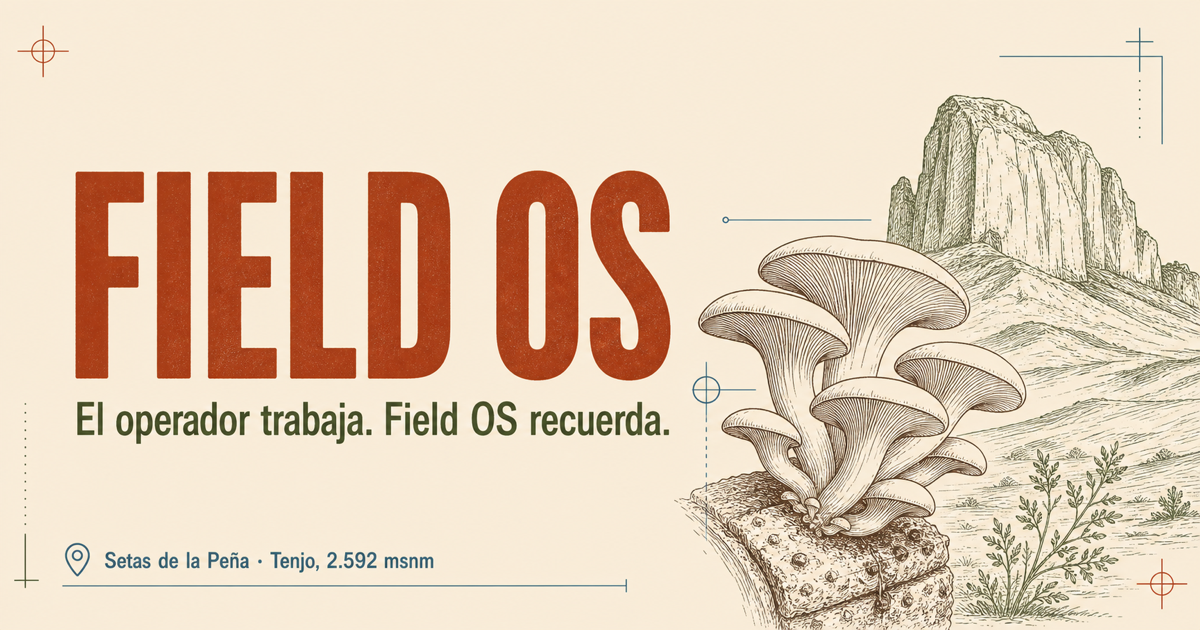
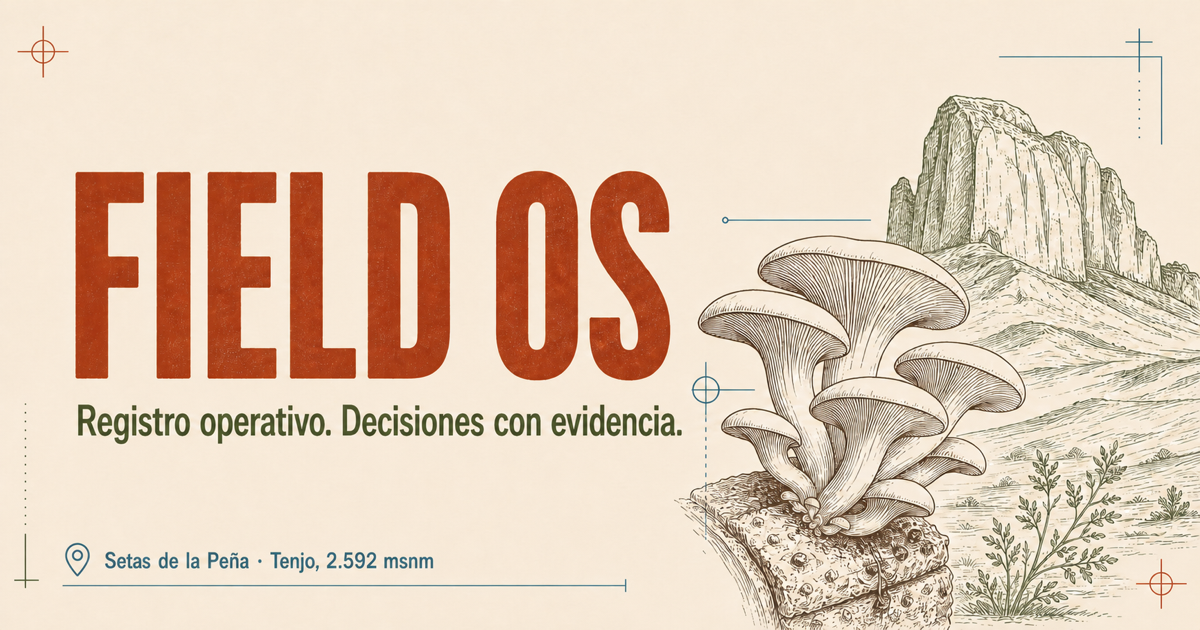
Refine Field OS voice

diff --git a/field-os-page/index.html b/field-os-page/index.html
@@ -6,7 +6,7 @@
   <meta name="theme-color" content="#F2E8D6">
   <meta name="description" content="Field OS: memoria operativa para el cultivo de setas en Tenjo. Captura, trazabilidad, producción y aprendizaje en un sistema modular.">
   <meta property="og:title" content="Field OS · Setas de la Peña">
-  <meta property="og:description" content="El operador trabaja. Field OS recuerda.">
+  <meta property="og:description" content="Registro operativo. Decisiones con evidencia.">
   <meta property="og:type" content="website">
   <meta property="og:locale" content="es_CO">
   <meta property="og:url" content="https://setasdlp-code.github.io/Field-OS/">
@@ -16,7 +16,7 @@
   <meta property="og:image:alt" content="Field OS, memoria operativa de Setas de la Peña en Tenjo">
   <meta name="twitter:card" content="summary_large_image">
   <meta name="twitter:title" content="Field OS · Setas de la Peña">
-  <meta name="twitter:description" content="Memoria operativa para cultivo de precisión en Tenjo.">
+  <meta name="twitter:description" content="Registro operativo y evidencia trazable para el cultivo en Tenjo.">
   <meta name="twitter:image" content="https://setasdlp-code.github.io/Field-OS/og.png">
   <title>Field OS · Setas de la Peña</title>
   <link rel="canonical" href="https://setasdlp-code.github.io/Field-OS/">
@@ -102,22 +102,22 @@
           <div class="view-header view-header--hero">
             <div>
               <p class="eyebrow" id="todayEyebrow">Sábado · 18 de julio · Turno de cultivo</p>
-              <h1 id="today-title">El turno, sin ruido.</h1>
-              <p class="lede" id="todayLede">Identifica el objeto en mano, registra el hecho y vuelve al cultivo. Cada evento queda atribuido y seguro.</p>
+              <h1 id="today-title">Estado de la operación.</h1>
+              <p class="lede" id="todayLede">Lotes, condiciones y excepciones con origen verificable. Cada cambio conserva autoría, hora y contexto.</p>
             </div>
             <img class="hero-specimen" src="./assets/hero-specimens.png" alt="Ilustración botánica de setas y la Peña de Juaica">
           </div>
 
           <div class="today-grid">
             <article class="capture-card surface-dark">
-              <div class="card-kicker">SIGUIENTE ACCIÓN</div>
-              <h2>¿Qué tienes en la mano?</h2>
-              <p>Escanea el QR del contenedor. Field OS traerá solo su identidad, último evento y acciones válidas.</p>
+              <div class="card-kicker">REGISTRO DE EVENTO</div>
+              <h2>Contenedor</h2>
+              <p>Escanea el QR o ingresa el código para abrir su identidad, historial reciente y eventos disponibles.</p>
               <button class="primary-action primary-action--light" type="button" id="scanButton">
                 <span class="scan-symbol" aria-hidden="true">⌗</span>
-                <span><strong>Escanear contenedor</strong><small>También puedes buscar por código</small></span>
+                <span><strong>Escanear contenedor</strong><small>Búsqueda por código disponible</small></span>
               </button>
-              <button class="text-action text-action--light" type="button" id="manualRegisterButton">Registrar sin escanear</button>
+              <button class="text-action text-action--light" type="button" id="manualRegisterButton">Ingresar código</button>
             </article>
 
             <article class="session-card card">
@@ -143,7 +143,7 @@
               <div class="card-heading">
                 <div>
                   <p class="eyebrow">PARA REVISAR</p>
-                  <h2>Evidencia, no órdenes</h2>
+                  <h2>Evidencia operativa</h2>
                 </div>
                 <span class="count-badge" id="reviewCount">2</span>
               </div>
@@ -181,7 +181,7 @@
 
         <section class="view" id="view-plan" data-view="plan" aria-labelledby="plan-title" hidden>
           <div class="view-header">
-            <div><p class="eyebrow">DEMANDA → CAPACIDAD → LOTES</p><h1 id="plan-title">Plan de producción</h1><p class="lede">La demanda comercial se convierte en órdenes visibles, sin duplicar datos entre ventas y cultivo.</p></div>
+            <div><p class="eyebrow">DEMANDA → CAPACIDAD → LOTES</p><h1 id="plan-title">Plan de producción</h1><p class="lede">Demanda, capacidad y órdenes de cultivo consolidadas en una misma secuencia operativa.</p></div>
             <button class="primary-action primary-action--inline" type="button">Nueva orden</button>
           </div>
           <div class="metric-strip">
@@ -257,7 +257,7 @@
 
         <section class="view" id="view-environment" data-view="environment" aria-labelledby="environment-title" hidden>
           <div class="view-header">
-            <div><p class="eyebrow">LECTURAS → REGLAS → EVIDENCIA</p><h1 id="environment-title">Ambiente</h1><p class="lede">Lo medido, lo simulado y lo calculado nunca se confunden. Las incidencias se agrupan y conservan responsable y cierre.</p></div>
+            <div><p class="eyebrow">LECTURAS → REGLAS → EVIDENCIA</p><h1 id="environment-title">Ambiente</h1><p class="lede">Lecturas, simulaciones y cálculos identificados por origen. Cada incidencia conserva responsable, seguimiento y cierre.</p></div>
             <button class="secondary-action" type="button">Banco de reglas</button>
           </div>
           <div class="chamber-grid">
@@ -278,14 +278,14 @@
             <article class="card incident-card">
               <div class="card-heading"><div><p class="eyebrow">INCIDENCIA AGRUPADA</p><h2>HR bajo rango registrado</h2></div><span class="status status--watch">Abierta</span></div>
               <dl class="incident-details"><div><dt>Inicio</dt><dd>11:06</dd></div><div><dt>Duración</dt><dd>22 min</dd></div><div><dt>Regla</dt><dd>HR &lt; 85% · 15 min</dd></div><div><dt>Origen</dt><dd>Sensor H-02A</dd></div></dl>
-              <label class="incident-note">Nota de revisión<textarea rows="3" placeholder="Registrar la observación, no una suposición."></textarea></label>
+              <label class="incident-note">Nota de revisión<textarea rows="3" placeholder="Hallazgo, causa confirmada o acción realizada."></textarea></label>
               <button class="primary-action primary-action--inline incident-ack" type="button">Reconocer incidencia</button>
             </article>
           </div>
         </section>
 
         <section class="view" id="view-inventory" data-view="inventory" aria-labelledby="inventory-title" hidden>
-          <div class="view-header"><div><p class="eyebrow">LOTE DE ORIGEN → MOVIMIENTO → COSTO</p><h1 id="inventory-title">Inventario</h1><p class="lede">Cada kg conserva proveedor, lote, fecha, costo y consumo. La disponibilidad no es solo una cifra.</p></div><button class="primary-action primary-action--inline" type="button">Registrar compra</button></div>
+          <div class="view-header"><div><p class="eyebrow">LOTE DE ORIGEN → MOVIMIENTO → COSTO</p><h1 id="inventory-title">Inventario</h1><p class="lede">Disponibilidad consolidada por proveedor, lote, fecha, costo y consumo proyectado.</p></div><button class="primary-action primary-action--inline" type="button">Registrar compra</button></div>
           <div class="metric-strip"><div><span>Valor en stock</span><strong>$286.400</strong><small>COP · calculado</small></div><div><span>Ingredientes</span><strong>12</strong><small>7 con stock</small></div><div><span>Por reponer</span><strong>2</strong><small>Según plan activo</small></div><div><span>Cobertura</span><strong>18 días</strong><small>Demanda prevista</small></div></div>
           <article class="card inventory-table-card">
             <div class="card-heading"><div><p class="eyebrow">STOCK POR LOTE</p><h2>Materias primas</h2></div><button class="text-action" type="button">Exportar CSV</button></div>
@@ -300,7 +300,7 @@
         </section>
 
         <section class="view" id="view-quality" data-view="quality" aria-labelledby="quality-title" hidden>
-          <div class="view-header"><div><p class="eyebrow">DEL PEDIDO AL INSUMO</p><h1 id="quality-title">Calidad y trazabilidad</h1><p class="lede">Un lote comercial puede recorrerse hacia atrás hasta cada cosecha, contenedor, receta e insumo.</p></div><button class="secondary-action" type="button" id="traceSearchButton">Buscar código</button></div>
+          <div class="view-header"><div><p class="eyebrow">DEL PEDIDO AL INSUMO</p><h1 id="quality-title">Calidad y trazabilidad</h1><p class="lede">La traza vincula cada lote comercial con sus cosechas, contenedores, receta e insumos de origen.</p></div><button class="secondary-action" type="button" id="traceSearchButton">Buscar código</button></div>
           <article class="card trace-card">
             <div class="card-heading"><div><p class="eyebrow">TRAZA ACTIVA</p><h2>EMP-260718-04 · Orellanas frescas 250 g</h2></div><span class="status status--approved">Liberado</span></div>
             <div class="trace-chain" aria-label="Cadena de trazabilidad del lote comercial">
@@ -325,15 +325,15 @@
         </section>
 
         <section class="view" id="view-learn" data-view="learn" aria-labelledby="learn-title" hidden>
-          <div class="view-header"><div><p class="eyebrow">HIPÓTESIS → EVIDENCIA → DECISIÓN → SOP</p><h1 id="learn-title">Aprender</h1><p class="lede">La experimentación usa la misma memoria operativa, pero nunca contamina la línea base de producción.</p></div><button class="primary-action primary-action--inline" type="button">Nueva prueba</button></div>
+          <div class="view-header"><div><p class="eyebrow">HIPÓTESIS → EVIDENCIA → DECISIÓN → SOP</p><h1 id="learn-title">Aprender</h1><p class="lede">Los ensayos comparten la memoria operativa y permanecen separados de la línea base de producción.</p></div><button class="primary-action primary-action--inline" type="button">Nueva prueba</button></div>
           <div class="split-layout split-layout--wide">
             <article class="card experiment-card"><div class="card-heading"><div><p class="eyebrow">EXP-260629-ML-02</p><h2>Melena de león · humedad 64% vs 67%</h2></div><span class="status status--experimental">Experimental</span></div><p class="support-copy">Hipótesis: reducir humedad inicial mejora colonización sin disminuir eficiencia biológica.</p><div class="comparison-grid"><div><small>Control · 67%</small><strong>EB 72%</strong><span>Contam. 12%</span></div><div class="comparison-grid--best"><small>Tratamiento · 64%</small><strong>EB 79%</strong><span>Contam. 4%</span></div></div><div class="experiment-footer"><span>6/6 contenedores cerrados</span><button class="compact-button" type="button">Abrir evidencia</button></div></article>
-            <article class="card sop-card"><div class="card-heading"><div><p class="eyebrow">DECISIÓN PENDIENTE</p><h2>Promover a repetición</h2></div><span class="source-tag source-tag--manual">Juicio humano</span></div><p>La evidencia favorece 64%, pero una sola corrida no cambia el SOP. Field OS conserva el resultado y prepara la siguiente repetición.</p><div class="sop-lifecycle"><span class="is-done">Observación</span><span class="is-done">Prueba</span><span class="is-active">Repetición</span><span>Validación</span><span>SOP</span></div><button class="secondary-action" type="button">Crear repetición vinculada</button></article>
+            <article class="card sop-card"><div class="card-heading"><div><p class="eyebrow">DECISIÓN PENDIENTE</p><h2>Promover a repetición</h2></div><span class="source-tag source-tag--manual">Juicio técnico</span></div><p>El resultado favorece 64%. La adopción al SOP requiere repetición y validación; la siguiente corrida conservará el vínculo con esta evidencia.</p><div class="sop-lifecycle"><span class="is-done">Observación</span><span class="is-done">Prueba</span><span class="is-active">Repetición</span><span>Validación</span><span>SOP</span></div><button class="secondary-action" type="button">Crear repetición vinculada</button></article>
           </div>
         </section>
 
         <section class="view" id="view-commercial" data-view="commercial" aria-labelledby="commercial-title" hidden>
-          <div class="view-header"><div><p class="eyebrow">PEDIDOS → COSECHA → ENTREGA</p><h1 id="commercial-title">Comercial</h1><p class="lede">La promesa al cliente se apoya en lotes y fechas reales, no en una hoja separada.</p></div><button class="primary-action primary-action--inline" type="button">Nuevo pedido</button></div>
+          <div class="view-header"><div><p class="eyebrow">PEDIDOS → COSECHA → ENTREGA</p><h1 id="commercial-title">Comercial</h1><p class="lede">Pedidos, disponibilidad prevista y fechas de entrega vinculados con los lotes de producción.</p></div><button class="primary-action primary-action--inline" type="button">Nuevo pedido</button></div>
           <div class="metric-strip"><div><span>Semana 29</span><strong>38,5 kg</strong><small>Pedidos confirmados</small></div><div><span>Disponible</span><strong>41,2 kg</strong><small>Cosecha prevista</small></div><div><span>Margen bruto</span><strong>47%</strong><small>Calculado por lote</small></div><div><span>Entregas</span><strong>7</strong><small>Bogotá y Tenjo</small></div></div>
           <article class="card order-board"><div class="card-heading"><div><p class="eyebrow">DESPACHOS PRÓXIMOS</p><h2>Pedidos confirmados</h2></div><span class="source-tag source-tag--mixed">Pedido + plan</span></div><div class="order-list"><div><span class="order-date">20 JUL</span><div><strong>Restaurante Aldea</strong><small>Orellana gris · 8,0 kg · Bogotá</small></div><span class="status status--ready">Asignado</span><strong>EMP-260718-04</strong></div><div><span class="order-date">22 JUL</span><div><strong>Mercado de Tenjo</strong><small>Orellana fresca · 12,0 kg</small></div><span class="status status--ready">Cubierto</span><strong>2 cosechas</strong></div><div><span class="order-date">24 JUL</span><div><strong>La Despensa Verde</strong><small>Orellana blanca · 6,5 kg · Bogotá</small></div><span class="status status--watch">En riesgo</span><strong>–1,2 kg</strong></div></div></article>
         </section>
@@ -363,14 +363,14 @@
         <div><small>Lote</small><strong>SDP-260607-OST-03</strong></div>
       </div>
       <fieldset class="event-choices">
-        <legend>¿Qué ocurrió?</legend>
-        <label><input type="radio" name="eventType" value="Observación" checked><span><strong>Observación</strong><small>Registrar lo que ves</small></span></label>
+        <legend>Tipo de evento</legend>
+        <label><input type="radio" name="eventType" value="Observación" checked><span><strong>Observación</strong><small>Condición registrada</small></span></label>
         <label><input type="radio" name="eventType" value="Cosecha"><span><strong>Cosecha</strong><small>Peso y calidad</small></span></label>
         <label><input type="radio" name="eventType" value="Traslado"><span><strong>Traslado</strong><small>Cambio de zona</small></span></label>
         <label><input type="radio" name="eventType" value="Contaminación"><span><strong>Contaminación</strong><small>Hecho observado</small></span></label>
       </fieldset>
       <div class="capture-fields">
-        <label>Nota breve<textarea id="eventNote" rows="3" placeholder="Como en un cuaderno de campo…"></textarea></label>
+        <label>Detalle<textarea id="eventNote" rows="3" placeholder="Hallazgo, medida o condición relevante."></textarea></label>
         <div class="quick-notes" aria-label="Notas rápidas">
           <button type="button" data-quick-note="Desarrollo uniforme.">Desarrollo uniforme</button>
           <button type="button" data-quick-note="Sin anomalías visibles.">Sin anomalías</button>
@@ -378,7 +378,7 @@
         </div>
       </div>
       <div class="dialog-actions">
-        <span><strong>Íñigo Pinzón</strong><small>Hora y autor se añaden automáticamente</small></span>
+        <span><strong>Íñigo Pinzón</strong><small>Hora y autor quedan asociados al evento</small></span>
         <button class="primary-action primary-action--inline" type="submit">Guardar evento</button>
       </div>
     </form>
@@ -388,7 +388,7 @@
     <form method="dialog" class="dialog-shell dialog-shell--small">
       <div class="dialog-header"><div><p class="eyebrow">CONFIRMACIÓN OPERATIVA</p><h2 id="batchDialogTitle">Ejecutar lote</h2></div><button class="dialog-close" type="button" aria-label="Cerrar confirmación">×</button></div>
       <div class="confirmation-list"><div><span>Receta</span><strong>Orellana Gris · v1.8</strong></div><div><span>Balance</span><strong>100,0% · válido</strong></div><div><span>Materia seca</span><strong>2,97 kg</strong></div><div><span>Stock</span><strong>Completo · FIFO</strong></div></div>
-      <p>Se creará un evento inmutable y se descontarán los lotes de insumo más antiguos. La receta usada quedará bloqueada para este lote.</p>
+      <p>La ejecución registra el evento, descuenta inventario por FIFO y fija la versión de receta asociada al lote.</p>
       <div class="dialog-actions dialog-actions--end"><button class="secondary-action" value="cancel">Cancelar</button><button class="primary-action primary-action--inline" id="confirmBatchButton" value="confirm">Confirmar ejecución</button></div>
     </form>
   </dialog>

diff --git a/field-os-page/app.js b/field-os-page/app.js
@@ -17,20 +17,20 @@
     operator: {
       session: "Cultivo · activa",
       eyebrow: "Sábado · 18 de julio · Turno de cultivo",
-      title: "El turno, sin ruido.",
-      lede: "Identifica el objeto en mano, registra el hecho y vuelve al cultivo. Cada evento queda atribuido y seguro."
+      title: "Registro del turno.",
+      lede: "Eventos, contenedores y condiciones del cultivo con autoría, hora y contexto."
     },
     production: {
       session: "Producción · Tenjo",
       eyebrow: "Sábado · 18 de julio · Operación",
-      title: "Lo que requiere atención.",
-      lede: "La operación aparece como evidencia concreta: lotes, condiciones y excepciones. Cada decisión conserva su origen."
+      title: "Estado de la operación.",
+      lede: "Lotes, condiciones y excepciones con origen verificable. Cada cambio conserva autoría, hora y contexto."
     },
     direction: {
       session: "Dirección · evidencia",
       eyebrow: "Sábado · 18 de julio · Vista de dirección",
-      title: "La operación, trazable.",
-      lede: "Demanda, calidad y aprendizaje comparten la misma memoria. Ninguna cifra comercial queda separada del lote que la produjo."
+      title: "Evidencia para decidir.",
+      lede: "Demanda, calidad, costos y aprendizaje vinculados con los lotes que los sustentan."
     }
   };
 
@@ -202,7 +202,7 @@
     eventCount.textContent = String(4 + state.events.length);
     document.querySelector("#eventNote").value = "";
     closeDialog(captureDialog);
-    showToast(`${record.type} guardada. El evento ya forma parte de la historia de C-0412.`);
+    showToast(`${record.type} registrada en C-0412.`);
   });
 
   document.querySelectorAll(".acknowledge-button").forEach((button) => {
@@ -212,7 +212,7 @@
       state.acknowledged += 1;
       saveState();
       updateReviewCount();
-      showToast("Revisión registrada con autor y hora.");
+      showToast("Revisión registrada · autor y hora conservados.");
     });
   });
 
@@ -224,7 +224,7 @@
       status.textContent = "Reconocida";
       status.className = "status status--ready";
     }
-    showToast("Incidencia reconocida. La lectura original permanece sin cambios.");
+    showToast("Incidencia reconocida · lectura original conservada.");
   });
 
   document.querySelector("#executeBatchButton").addEventListener("click", () => {
@@ -239,7 +239,7 @@
   });
 
   document.querySelector("#traceSearchButton")?.addEventListener("click", () => {
-    showToast("Demo: la búsqueda acepta código de pedido, empaque, cosecha, contenedor, lote o insumo.");
+    showToast("Criterios disponibles: pedido, empaque, cosecha, contenedor, lote o insumo.");
   });
 
   window.addEventListener("beforeinstallprompt", (event) => {

diff --git a/field-os-page/sw.js b/field-os-page/sw.js
@@ -1,4 +1,4 @@
-const CACHE_NAME = "field-os-v2";
+const CACHE_NAME = "field-os-v3";
 const APP_SHELL = [
   "./",
   "./index.html",